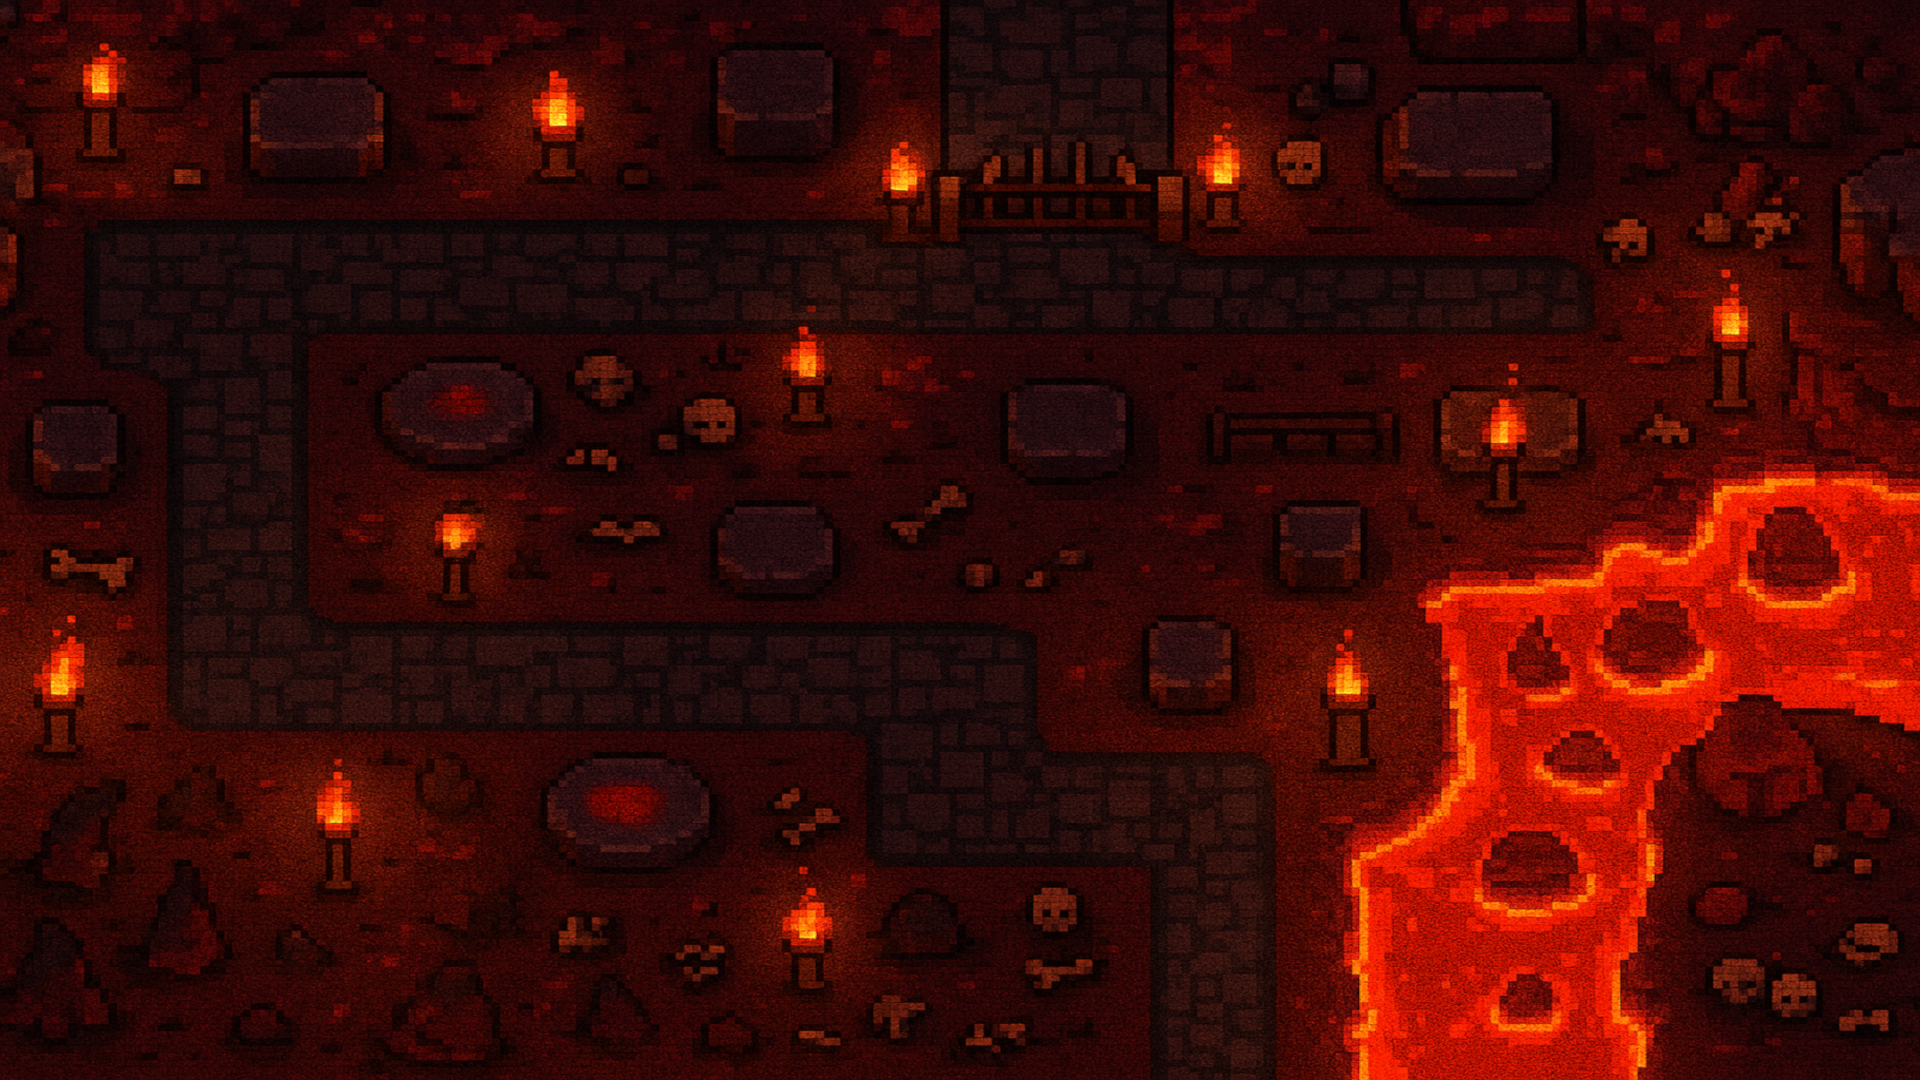
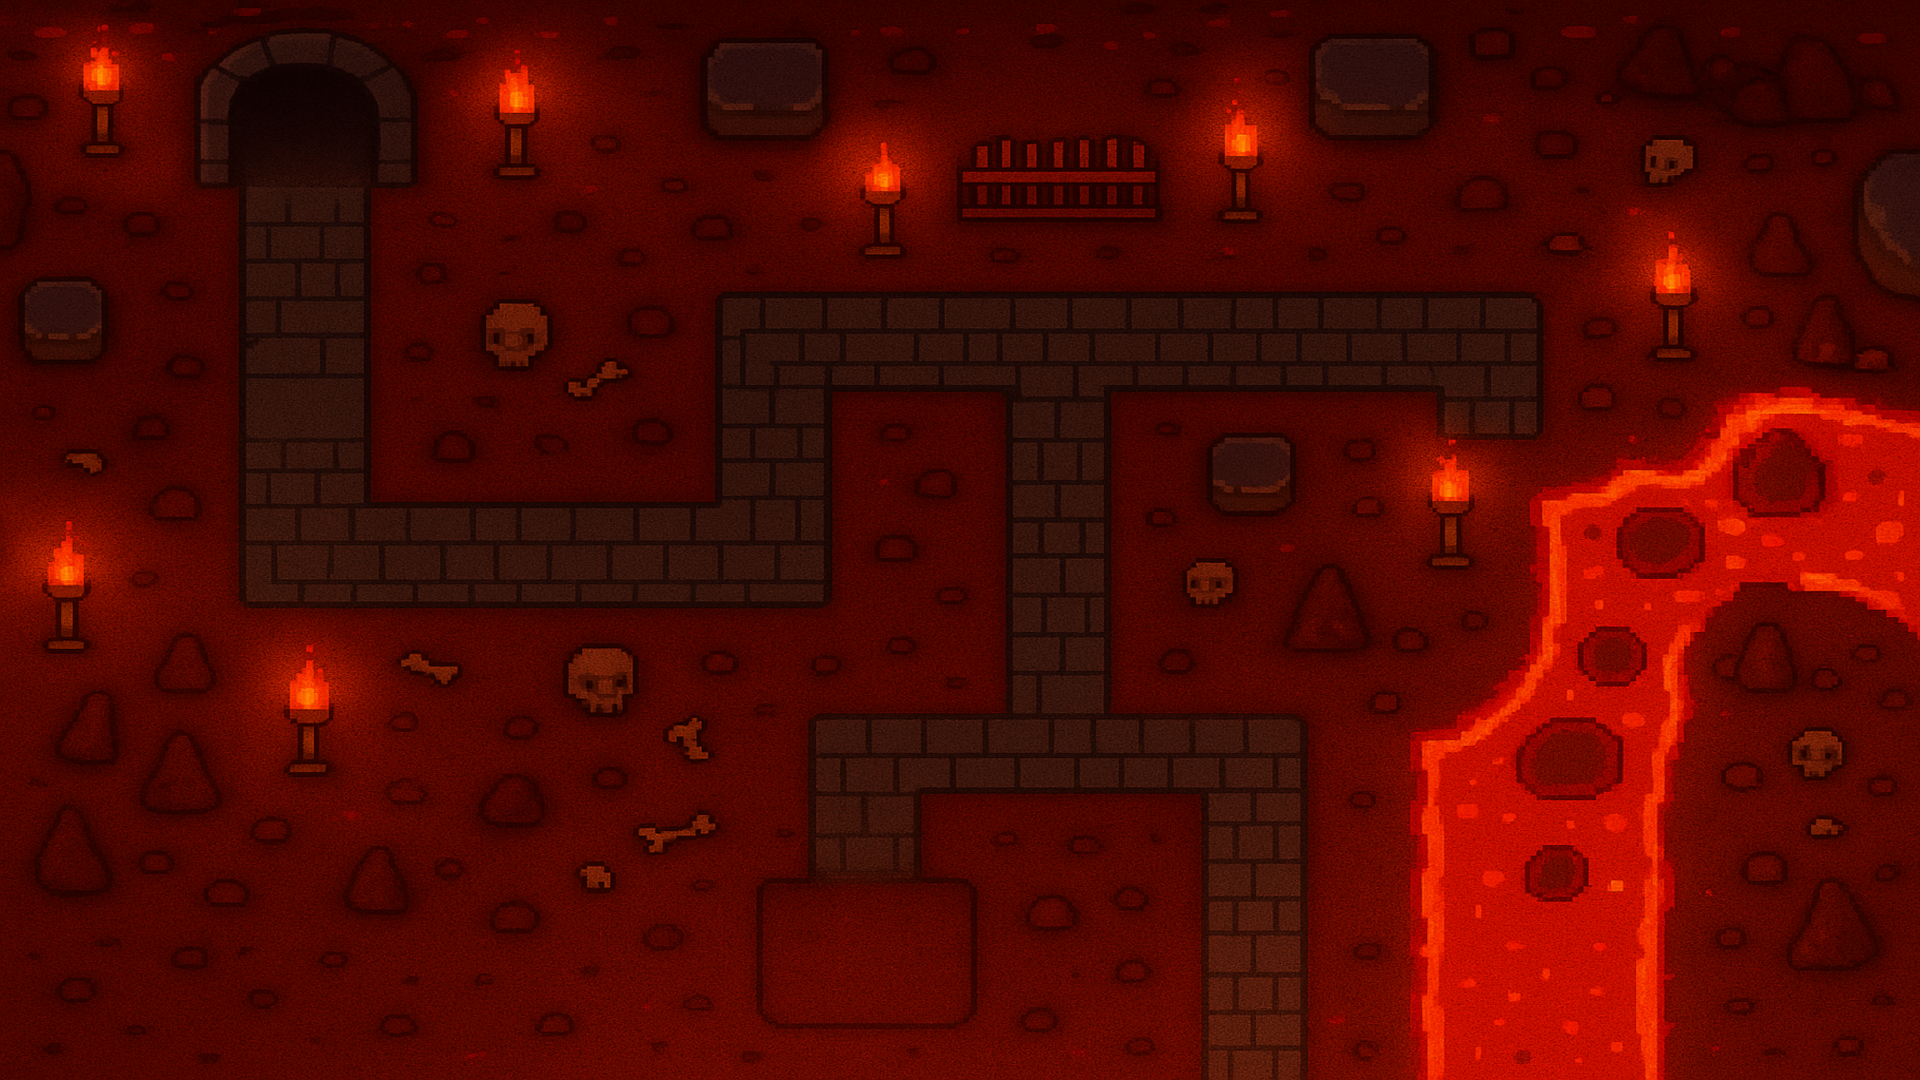
Thêm đế cho map lava + map sand

diff --git a/Game.cpp b/Game.cpp
@@ -336,18 +336,55 @@ void Game::initUIFlow()
 			entity->active(true);
 		}
 
-		readMapBase.close();
 
 
 		//Khởi tạo map2
 		entity = m_scenes[AppState::Map2].addEntity("Map2");
 		entity->cSet = make_shared<CSet>("IMGS/map2.png");
 
+		while (getline(readMapBase, line)) {
+			if (line.empty() || line[0] == '#') continue;
+			istringstream iss(line);
+			iss >> tag >> filepath >> base_amount;
+			break;
+		}
+
+		while (getline(readMapBase, line) && base_amount > 0) {
+			if (line.empty() || line[0] == '#') continue;
+
+			base_amount--;
+			istringstream iss(line);
+			iss >> Base.x >> Base.y;
+
+			entity = m_scenes[AppState::Map2].addEntity(tag);
+			entity->cSet = make_shared<CSet>(filepath);
+			entity->cPosition = make_shared<CPosition>(Base);
+			entity->active(true);
+		}
 		
 		//Khởi tạo map3
 		entity = m_scenes[AppState::Map3].addEntity("Map3");
 		entity->cSet = make_shared<CSet>("IMGS/map3.png");
+		while (getline(readMapBase, line)) {
+			if (line.empty() || line[0] == '#') continue;
+			istringstream iss(line);
+			iss >> tag >> filepath >> base_amount;
+			break;
+		}
 
+		while (getline(readMapBase, line) && base_amount > 0) {
+			if (line.empty() || line[0] == '#') continue;
+
+			base_amount--;
+			istringstream iss(line);
+			iss >> Base.x >> Base.y;
+
+			entity = m_scenes[AppState::Map3].addEntity(tag);
+			entity->cSet = make_shared<CSet>(filepath);
+			entity->cPosition = make_shared<CPosition>(Base);
+			entity->active(true);
+		}
+		readMapBase.close();
 		
 		// Khởi tạo map4
 		entity = m_scenes[AppState::Map4].addEntity("Map4");
